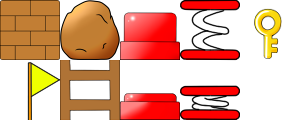
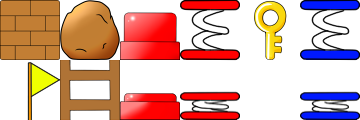
シーソー完成　なんかいろいろ変えた　バグみっけたら言って

diff --git a/client_window.c b/client_window.c
@@ -358,14 +358,31 @@ void hitjudge(void){
 				if(newposy+75 >= object[i].dst.y+35){
 					newposy = object[i].dst.y-40;
 					jump_a = 6 * object[i].status;	
-					if(jump_a >= 7){
-					object[i].src.y = 0;
-					SDL_BlitSurface(objectimage, &object[i].src, objectwindow, &object[i].dst); // object貼り付け	
-					}
+						if(jump_a >= 7){
+						object[i].src.y = 0;
+						SDL_BlitSurface(objectimage, &object[i].src, objectwindow, &object[i].dst); // object貼り付け	
+						}
 				}
 			SDL_BlitSurface(objectimage, &object[i].src, objectwindow, &object[i].dst); // object貼り付け	
 			}
 		}
+
+		//バネシーソーのとき
+		if(object[i].gimmick == 5){
+			if( (newposx+gameRect.x >= object[i].dst.x - 38 && newposx+gameRect.x <= object[i].dst.x + 40) &&
+				(P.y+74 >= object[i].dst.y+40 && P.y <= object[i].dst.y + 25))
+				hitx = 1;
+			if(P.x+gameRect.x >= object[i].dst.x - 35 && P.x+gameRect.x <= object[i].dst.x + 38 &&
+			   P.y+75 >= object[i].dst.y+30 && P.y <= object[i].dst.y-35 && jump_a <= 0){
+					newposy = object[i].dst.y - 40;
+jump_LR = 0;
+if(object[i].status == 0 && jump_a <= 0){
+object[i].status = 1;//PUSH
+object[object[i].flaghold].status = -1;//PULL
+}
+}
+			}
+
 
 
 		//カギのとき
@@ -391,13 +408,13 @@ void hitjudge(void){
 		}
 
 		//ループギミックのとき
-		if(object[i].gimmick == 5){
+		if(object[i].gimmick == 6){
 			gameRect.x -= 25*bit;
 		}
 
 
 	//オブジェクト全体の当たり判定
-	if(object[i].gimmick != 2 && object[i].gimmick != 4 && object[i].gimmick != 5){
+	if(object[i].gimmick != NULL && object[i].gimmick != 2 && object[i].gimmick != 4 && object[i].gimmick != 5 && object[i].gimmick != 6){
 	if( (newposx+gameRect.x >= object[i].dst.x - 45 && newposx+gameRect.x <= object[i].dst.x + 45) &&
 		(P.y >= object[i].dst.y - 74 && P.y <= object[i].dst.y + 35) )
 		hitx = 1;
@@ -407,7 +424,7 @@ void hitjudge(void){
 			hity = 1;//上にヒット
 		if(newposy <= object[i].dst.y && object[i].flaghold == 0 && object[i].gimmick != 3)
 			hity = -1;//下にヒット
-				if(object[i].flaghold == 1 && newposy <= object[i].dst.y + 20){
+				if(object[i].flaghold != 0 && newposy <= object[i].dst.y + 20){
 				jumpflag = 0;
 				jump_LR = 0;
 				newposy = object[i].dst.y - 75;
@@ -424,7 +441,7 @@ void hitjudge(void){
 	//岩の下にマップがなにもなかった場合
 	if(gMaps[(object[j].dst.x)/bit][object[j].dst.y/bit+1] == 0 &&
 	   gMaps[(object[j].dst.x+59)/bit][object[j].dst.y/bit+1] == 0 &&
-		object[j].dst.y <= 20 * 60){
+		object[j].dst.y <= 20 * 60 && object[j].flaghold != -1){
 		object[j].flaghold = 1;
 
 		for(k=0; k<=SUM_switchblock; k++){
@@ -447,23 +464,31 @@ void hitjudge(void){
 				if(object[j].dst.y+30 >= object[k].dst.y && object[j].dst.y-30 <= object[k].dst.y){
 					object[j].movex = 0;
 				}
-				if(object[j].dst.y+60 >= object[k].dst.y && object[j].dst.y+20 <= object[k].dst.y){
+				if(object[j].dst.y+60 >= object[k].dst.y && object[j].dst.y+20 <= object[k].dst.y && object[j].flaghold != -1){
 					object[j].movey = 0;
 					object[j].flaghold = 0;
 				}
-				if(object[j].gimmick == 1 && object[k].gimmick == 2 && object[j].dst.y+60 >= object[k].dst.y && object[j].dst.y+20 <= object[k].dst.y && object[k].status == 0)
+				if((object[j].gimmick == 1 || object[j].gimmick == 3) && object[k].gimmick == 2 && object[j].dst.y+60 >= object[k].dst.y && object[j].dst.y+20 <= object[k].dst.y && object[k].status != 2)
 					object[j].flaghold = 1;
-				if(object[j].gimmick == 3 && object[k].gimmick == 2 && object[j].dst.y+60 >= object[k].dst.y && object[j].dst.y+50 <= object[k].dst.y)
-					object[j].flaghold = 1;
-				if(object[j].gimmick == 1 && object[k].gimmick == 2 && object[j].dst.y+20 >= object[k].dst.y && object[j].dst.y+10 <= object[k].dst.y && object[k].status == 0){
+				if(object[k].gimmick == 2 && object[j].dst.y+30 >= object[k].dst.y && object[j].dst.y+20 <= object[k].dst.y && object[k].status == 0){
+					if(object[j].gimmick == 1 && object[j].flaghold != -1){
 					object[k].status = 2;
 					switchblock[object[k].flaghold].flaghold = 1;
-					object[k].src.y = object[k].status*bit;
+					object[k].src.y = bit;
 					white.x = object[k].dst.x;
 					white.y = object[k].dst.y;
 					SDL_BlitSurface(mapwindow, &white, objectwindow, &object[k].dst); // object貼り付け準備
 					SDL_BlitSurface(objectimage, &object[k].src, objectwindow, &object[k].dst); // object貼り付け
+					object[j].flaghold = -1;
+					object[j].movey = 2;
+					SDL_BlitSurface(objectimage, &object[j].src, objectwindow, &object[j].dst); // object貼り付け
+					}
 				}
+if(object[j].gimmick == 1 && object[k].gimmick == 5 && object[j].dst.y+60 >= object[k].dst.y && object[j].dst.y+30 <= object[k].dst.y){
+object[j].flaghold = 1;
+if(object[j].dst.y+35 >= object[k].dst.y && object[j].status == 0)
+object[object[k].flaghold].status = -2;
+}
 			}
 		}
 	}
@@ -515,6 +540,35 @@ void hitjudge(void){
 	}
 	}
 
+
+	////再判定2
+	for(j=0; j<=SUM_object; j++){
+		//バネシーソーのとき
+		if(object[j].gimmick == 5 && (object[j].status == -1 || object[j].status == -2)){
+		if(P.x+gameRect.x >= object[j].dst.x - 45 && P.x+gameRect.x <= object[j].dst.x + 45 &&
+		P.y+75 >= object[j].dst.y+20 && P.y+75 <= object[j].dst.y+50){
+			if(object[j].status == -1)
+			jump_a = 5*6;
+			if(object[j].status == -2)
+			jump_a = 6*6;
+		}
+		if(object[j].status == -1)
+		object[j].status = 0;
+		if(object[j].status == -2)
+		object[j].gimmick = -1;//
+		object[object[j].flaghold].status = 1;
+
+		SDL_BlitSurface(mapwindow, &white, objectwindow, &object[j].dst); // object貼り付け準備
+		SDL_BlitSurface(mapwindow, &white, objectwindow, &object[object[j].flaghold].dst); // object貼り付け準備
+		object[j].src.y = 0;
+		object[object[j].flaghold].src.y = object[object[j].flaghold].status*bit;
+		SDL_BlitSurface(objectimage, &object[j].src, objectwindow, &object[j].dst); // object貼り付け
+		SDL_BlitSurface(objectimage, &object[object[j].flaghold].src, objectwindow, &object[object[j].flaghold].dst); // object貼り付け
+		SDL_BlitSurface(objectimage, &object[0].src, objectwindow, &object[0].dst);
+
+		}
+	}
+
 	//スイッチブロックの当たり判定と描写
 	for(j=0; j<=SUM_switchblock; j++){
 		if(switchblock[j].src.y != switchblock[j].flaghold*60){
@@ -535,7 +589,7 @@ void hitjudge(void){
 		switchblock[j].dst.y -= k*60;
 		}
 
-		if(switchblock[j].flaghold == 1){
+		if((switchblock[j].src.x == 0 && switchblock[j].src.y == 60) || (switchblock[j].src.x == 60 && switchblock[j].src.y == 0)){
 		if( (newposx+gameRect.x >= switchblock[j].dst.x-60+15 && newposx+gameRect.x <= switchblock[j].dst.x+switchblock[j].status*bit-60 + 40) &&
 			(P.y >= switchblock[j].dst.y-70 && P.y <= switchblock[j].dst.y+switchblock[j].gimmick*bit-60 + 25) )
 			hitx = 1;

diff --git a/client_system.c b/client_system.c
@@ -307,7 +307,7 @@ SDL_BlitSurface(mapwindow, NULL, objectwindow, NULL); // マップ貼り付け
 
 	object[29].gimmick = 4; //カギ
 	object[29].status = 0;
-	object[29].dst.x = 5;//255;
+	object[29].dst.x = 255;
 	object[29].dst.y = 11;
 
 	for(j=0; j<SUM_object; j++){
@@ -399,6 +399,9 @@ void objectinit2(void){
 	switchblock[j].dst.x *= bit;
 	switchblock[j].dst.y *= bit;
 
+//if(j == )
+//switchblock[j].src.x = 60;
+
 	for(l=0; l<switchblock[j].status; l++){
 	SDL_BlitSurface(blockimage, &switchblock[j].src, mapwindow, &switchblock[j].dst); // switchblock貼り付け
 	switchblock[j].dst.x += bit;
@@ -417,7 +420,7 @@ void objectinit2(void){
 	steps[0].dst.y = 5;
 
 	steps[1].status = 9;//長さ
-	steps[1].dst.x = 143;
+	steps[1].dst.x = 221;
 	steps[1].dst.y = 3;
 
 	steps[2].status = 4;//長さ
@@ -549,11 +552,11 @@ SDL_BlitSurface(mapwindow, NULL, objectwindow, NULL); // マップ貼り付け
 	object[20].dst.x = 93;
 	object[20].dst.y = 12;
 
-	object[21].gimmick = 5; //ループギミック
+	object[21].gimmick = 6; //ループギミック
 	object[21].dst.x = 130;
 	object[21].dst.y = 7;
 
-	object[22].gimmick = 5; //ループギミック
+	object[22].gimmick = 6; //ループギミック
 	object[22].dst.x = 130;
 	object[22].dst.y = 3;
 
@@ -562,12 +565,13 @@ SDL_BlitSurface(mapwindow, NULL, objectwindow, NULL); // マップ貼り付け
 	object[23].dst.x = 118;
 	object[23].dst.y = 12;
 
+	object[24].gimmick = 3;
+	object[24].status = 6;
+	object[24].dst.x = 143;
+	object[24].dst.y = 12;
 
 
-	object[24].gimmick = 2; //スイッチ
-	object[24].flaghold = 8;
-	object[24].dst.x = 233;
-	object[24].dst.y = 5;
+
 
 	object[25].gimmick = 2; //スイッチ
 	object[25].flaghold = 9;
@@ -578,19 +582,22 @@ SDL_BlitSurface(mapwindow, NULL, objectwindow, NULL); // マップ貼り付け
 	object[26].dst.x = 220;
 	object[26].dst.y = 1;
 
-	object[27].gimmick = 0;
-	object[27].dst.x = 243;
-	object[27].dst.y = 2;
+	object[27].gimmick = 5; //バネシーソー
+	object[27].status = -1;
+	object[27].flaghold = 28;
+	object[27].dst.x = 14;
+	object[27].dst.y = 12;
 
-	object[28].gimmick = 2; //スイッチ
-	object[28].flaghold = 10;
-	object[28].dst.x = 268;
-	object[28].dst.y = 11;
+	object[28].gimmick = 5; //バネシーソー
+	object[28].status = 0;
+	object[28].flaghold = 27;
+	object[28].dst.x = 17;
+	object[28].dst.y = 12;
 
-	object[29].gimmick = 3; //バネ
-	object[29].status = 4;
-	object[29].dst.x = 266;
-	object[29].dst.y = 3;
+	object[29].gimmick = 4; //カギ
+	object[29].status = 0;
+	object[29].dst.x = 255;
+	object[29].dst.y = 11;
 
 
 	for(j=0; j<SUM_object; j++){
